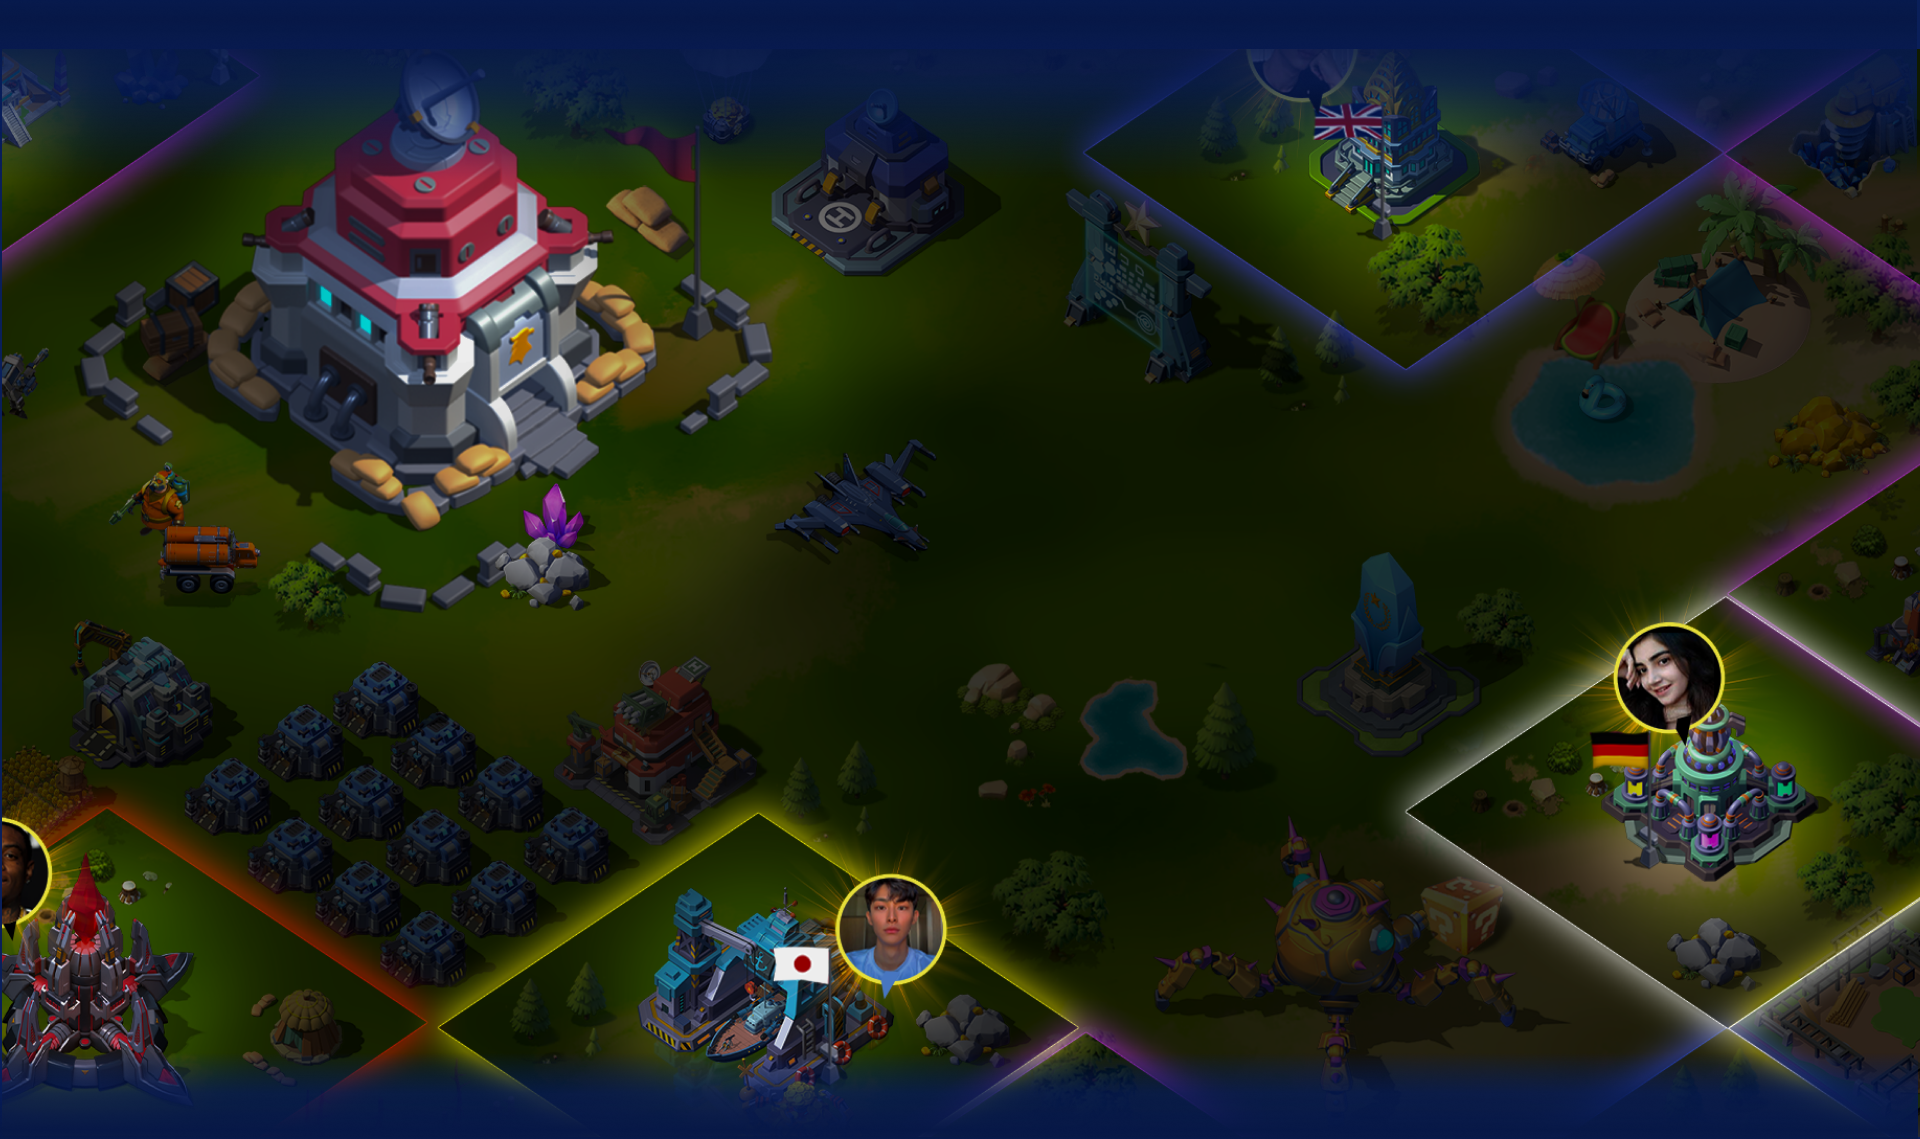
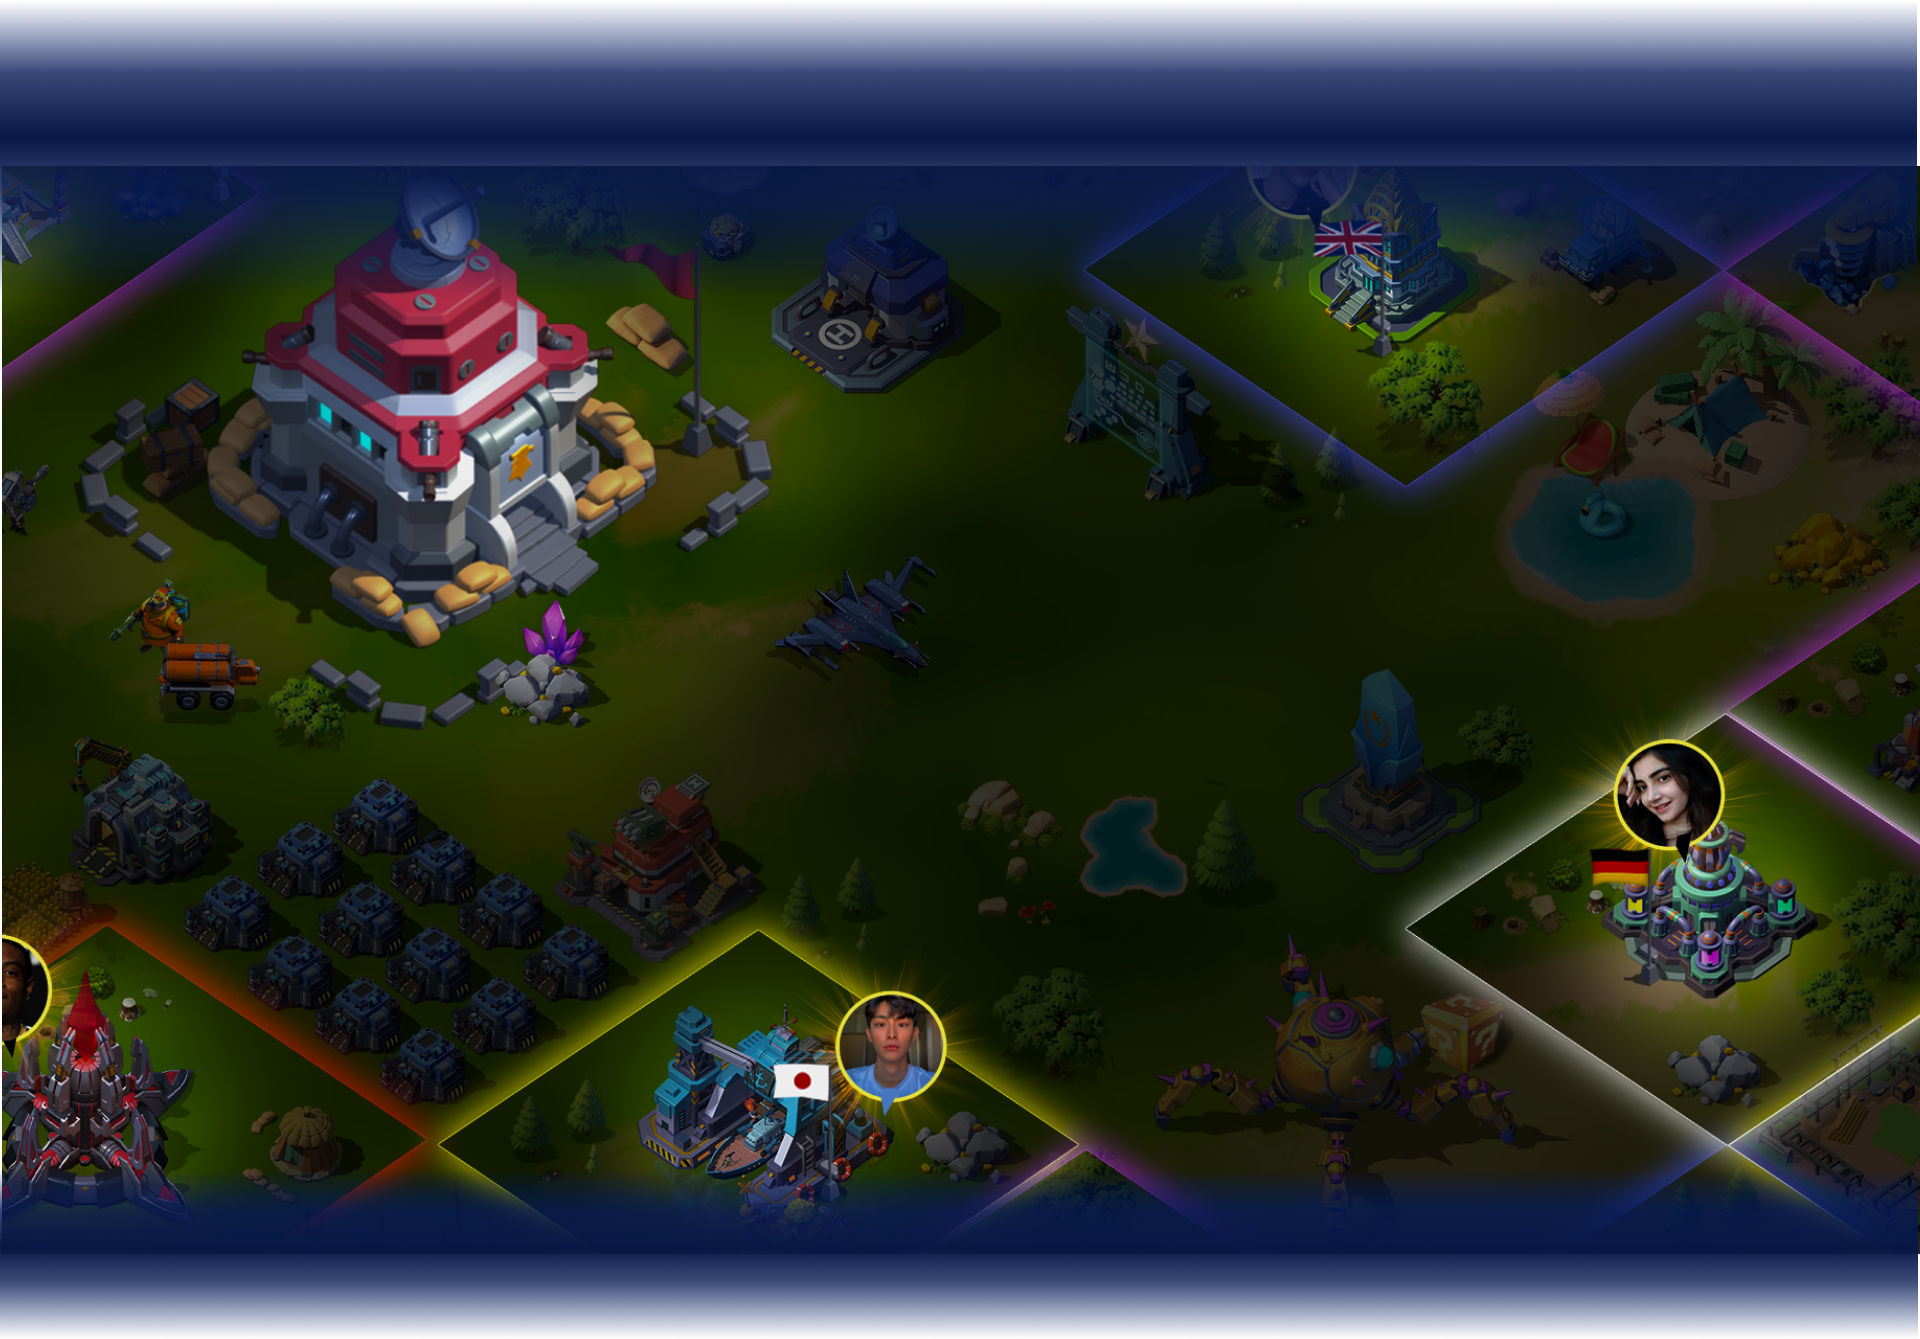
Update section order

diff --git a/index.html b/index.html
@@ -1018,6 +1018,26 @@
       </div>
     </section>
 
+    <!-- LAND -->
+    <section class="iw-land">
+      <img src="assets/images/background/lands.png" class="w-100" alt="" />
+      <div class="inner">
+        <div class="container">
+          <div class="iw-section-title">
+            <img src="assets/images/title-left.svg" alt="" />
+            <span>Land</span>
+            <img src="assets/images/title-right.svg" alt="" />
+          </div>
+          <div class="content">
+            <h3>Ready to become a landowner?</h3>
+            <a href="" class="iw-btn btn btn-warning">
+              <span> Go to Land Sale </span>
+            </a>
+          </div>
+        </div>
+      </div>
+    </section>
+
     <!-- GAME ECONOMY -->
     <section class="iw-game-economy">
       <div class="iw-section-title">
@@ -1478,26 +1498,6 @@
                 </div>
               </div>
             </div>
-          </div>
-        </div>
-      </div>
-    </section>
-
-    <!-- LAND -->
-    <section class="iw-land">
-      <img src="assets/images/background/lands.png" class="w-100" alt="" />
-      <div class="inner">
-        <div class="container">
-          <div class="iw-section-title">
-            <img src="assets/images/title-left.svg" alt="" />
-            <span>Land</span>
-            <img src="assets/images/title-right.svg" alt="" />
-          </div>
-          <div class="content">
-            <h3>Ready to become a landowner?</h3>
-            <a href="" class="iw-btn btn btn-warning">
-              <span> Go to Land Sale </span>
-            </a>
           </div>
         </div>
       </div>

diff --git a/assets/css/_game-economy.scss b/assets/css/_game-economy.scss
@@ -1,10 +1,12 @@
 .iw-game-economy {
-  margin-top: 80px;
+  margin-top: -55px;
+  padding-top: 55px;
   display: flex;
   align-items: center;
   flex-direction: column;
   justify-content: center;
-
+  background-image: url(../images/background/game-economy.png);
+  background-size: cover;
   &-left {
     width: 51.04vw;
     img {
@@ -98,7 +100,7 @@
     width: 25.26vw;
     cursor: pointer;
     .legend {
-      min-width: 10.31vw;
+      min-width: 178px;
       padding: 10px 0;
       text-align: center;
     }

diff --git a/assets/css/_land.scss b/assets/css/_land.scss
@@ -1,10 +1,14 @@
 .iw-land {
   position: relative;
+  padding-top: 117px;
+  margin-top: -117px;
   .inner {
     position: absolute;
     top: 0;
     left: 0;
     width: 100%;
+    // padding-top: 244px;
+    padding-top: 170px;
     height: 100%;
   }
   .container {
@@ -16,7 +20,7 @@
     text-align: center;
     .iw-section-title {
       position: absolute;
-      top: 78px;
+      top: 0;
       left: 50%;
       transform: translateX(-50%);
     }
